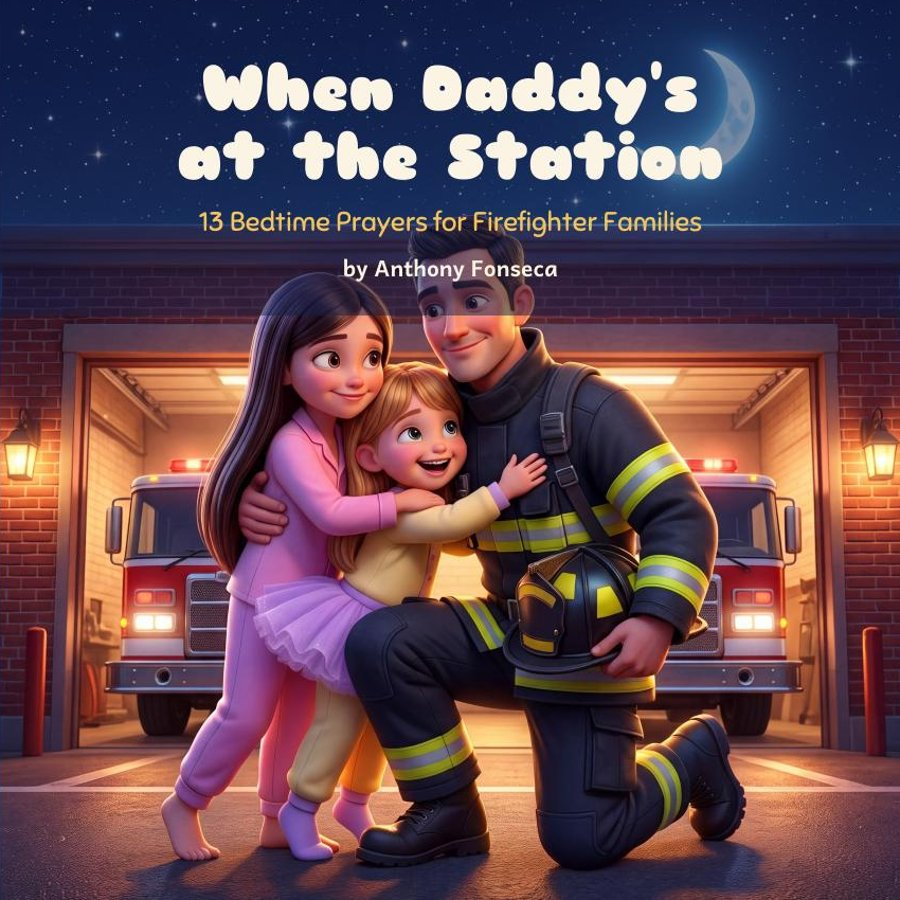
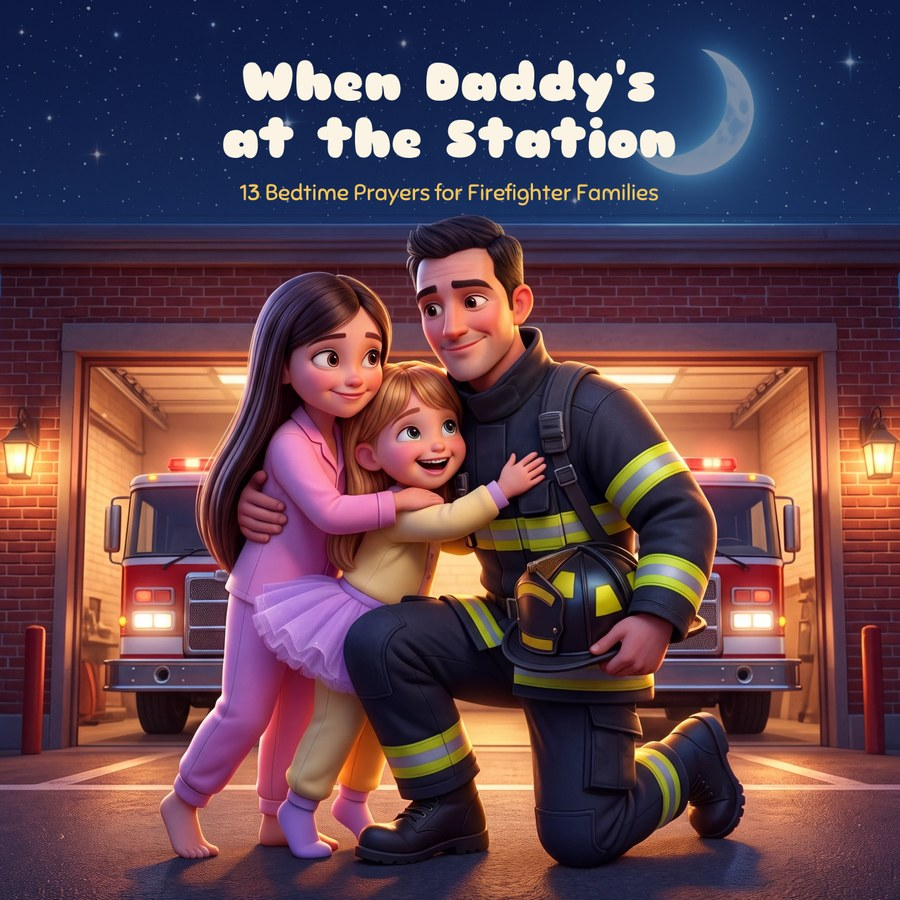
Fix both book covers and mark the Christmas book as available
Claude-Session: https://claude.ai/code/session_012g15AbnCh3G1S4kt4c1gbc

diff --git a/index.html b/index.html
@@ -228,11 +228,11 @@ footer .sel{user-select:all}
         <article class="book">
           <img src="img/book2.jpg" alt="Cover of When Daddy's at the Station: A Christmas Story">
           <div class="info">
-            <span class="tag soon">Coming this Christmas</span>
+            <span class="tag">New for Christmas</span>
             <h3>When Daddy's at the Station: A Christmas Story</h3>
             <span class="sub">11 Bedtime Prayers for Firefighter Families</span>
-            <p>Daddy has the Christmas Eve shift, so Christmas comes to the station: dinner with the crew, a toy drive, and a call that comes in just as everyone sits down. And Christmas morning doesn't go quite the way anyone planned.</p>
-            <a class="btn btn-line" href="#prayer-card">Tell me when it's out</a>
+            <p>Daddy has the Christmas Eve shift, so Christmas comes to the station: dinner with the crew, a toy drive, and a call that comes in just as everyone sits down. And on Christmas morning, Daddy makes a choice that shows the girls what giving really means. Ages 3 to 8.</p>
+            <a class="btn btn-red" href="https://www.amazon.com/s?k=When+Daddy%27s+at+the+Station+A+Christmas+Story+Anthony+Fonseca" target="_blank" rel="noopener">Buy on Amazon</a>
           </div>
         </article>
       </div>
@@ -295,11 +295,11 @@ footer .sel{user-select:all}
         <div>
           <span class="eyebrow">Free printable</span>
           <h2 id="card-h" style="margin-top:10px">Get a free shift-night prayer card</h2>
-          <p>A printable card for your fridge or nightstand, with a prayer your kids can say for their firefighter. We'll also let you know when the Christmas book is out.</p>
+          <p>A printable card for your fridge or nightstand, with a prayer your kids can say for their firefighter. We'll also let you know when new books come out.</p>
         </div>
         <div class="ghl-form">
           <iframe src="https://api.leadconnectorhq.com/widget/form/fTDLoFq7cRDqBesoI3H7" style="width:100%;height:330px;border:none;border-radius:12px;background:#fff" id="inline-fTDLoFq7cRDqBesoI3H7" data-layout="{'id':'INLINE'}" data-trigger-type="alwaysShow" data-activation-type="alwaysActivated" data-deactivation-type="neverDeactivate" data-form-name="Prayer Card Sign-up" data-height="330" data-layout-iframe-id="inline-fTDLoFq7cRDqBesoI3H7" data-form-id="fTDLoFq7cRDqBesoI3H7" title="Prayer Card Sign-up"></iframe>
-          <p class="note">We'll only use your email for Station House Kids news, like when the Christmas book comes out.</p>
+          <p class="note">We'll only use your email for Station House Kids news, like when a new book comes out.</p>
         </div>
       </div>
     </div>
